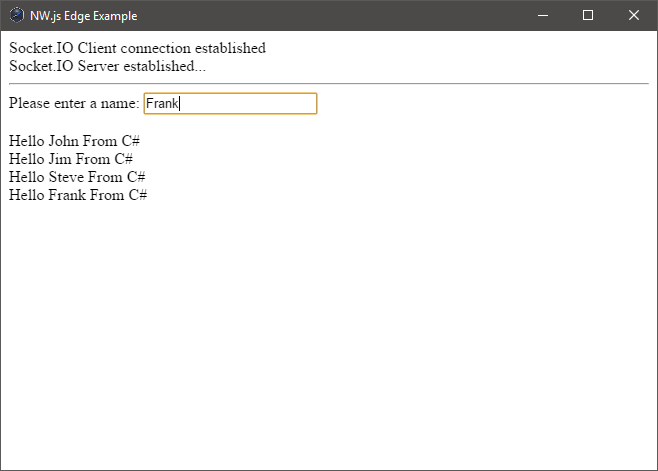
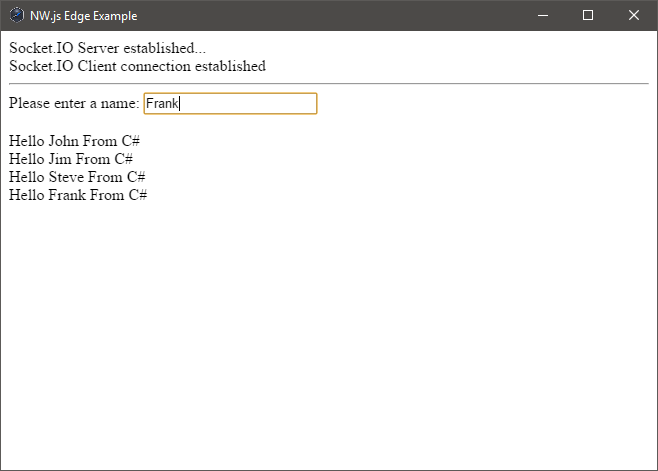
Update screenshot
- Attempt to prevent client connection log message showing before the
server log message, LOL!

Changed region(s): [[0.1216, 0.0892, 0.4255, 0.1486]]

diff --git a/src/main.js b/src/main.js
@@ -42,7 +42,11 @@ class UI extends React.Component {
          if(status === "success") {
            $log.html("");
            socket = io("http://localhost:62375");
-           $log.append("Socket.IO Client connection established<br/>");
+
+           setTimeout(function(){
+             $log.append("Socket.IO Client connection established<br/>");
+           }, 1000);
+
            this.setupSocketIOHandlers();
            clearInterval(checkSocketIOInterval);
          } else {
